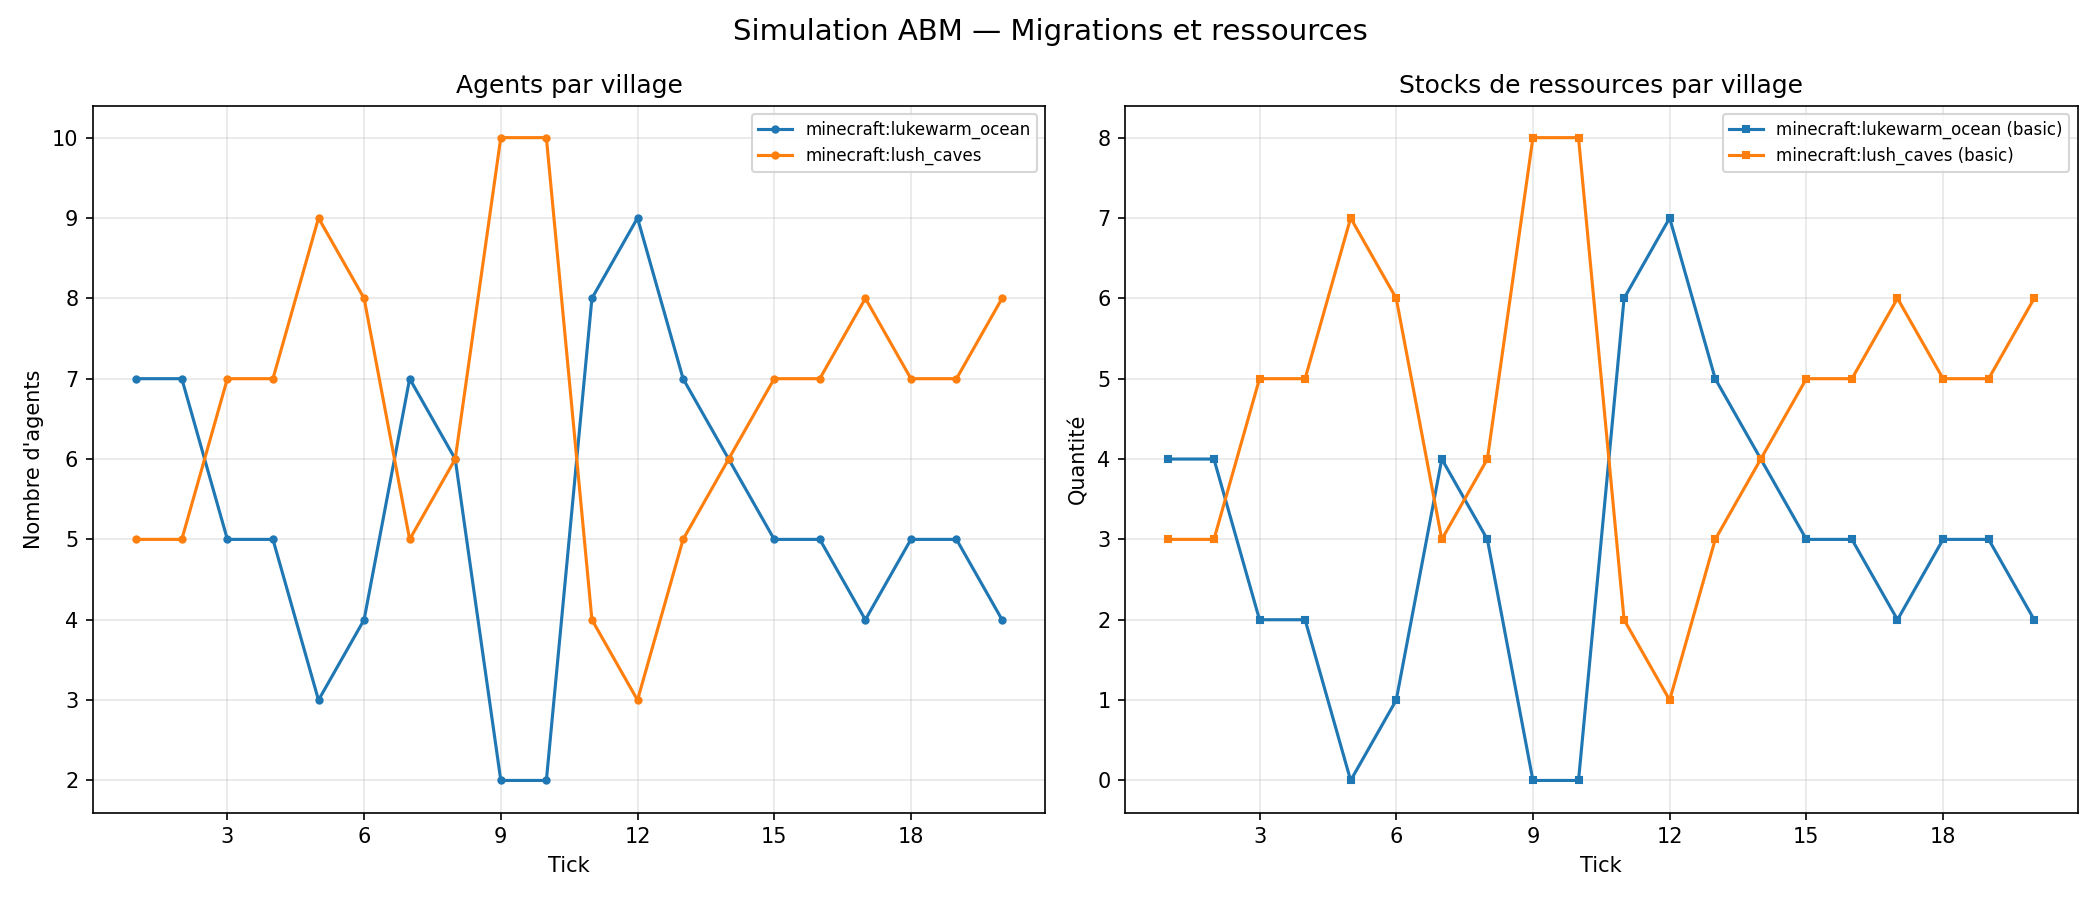
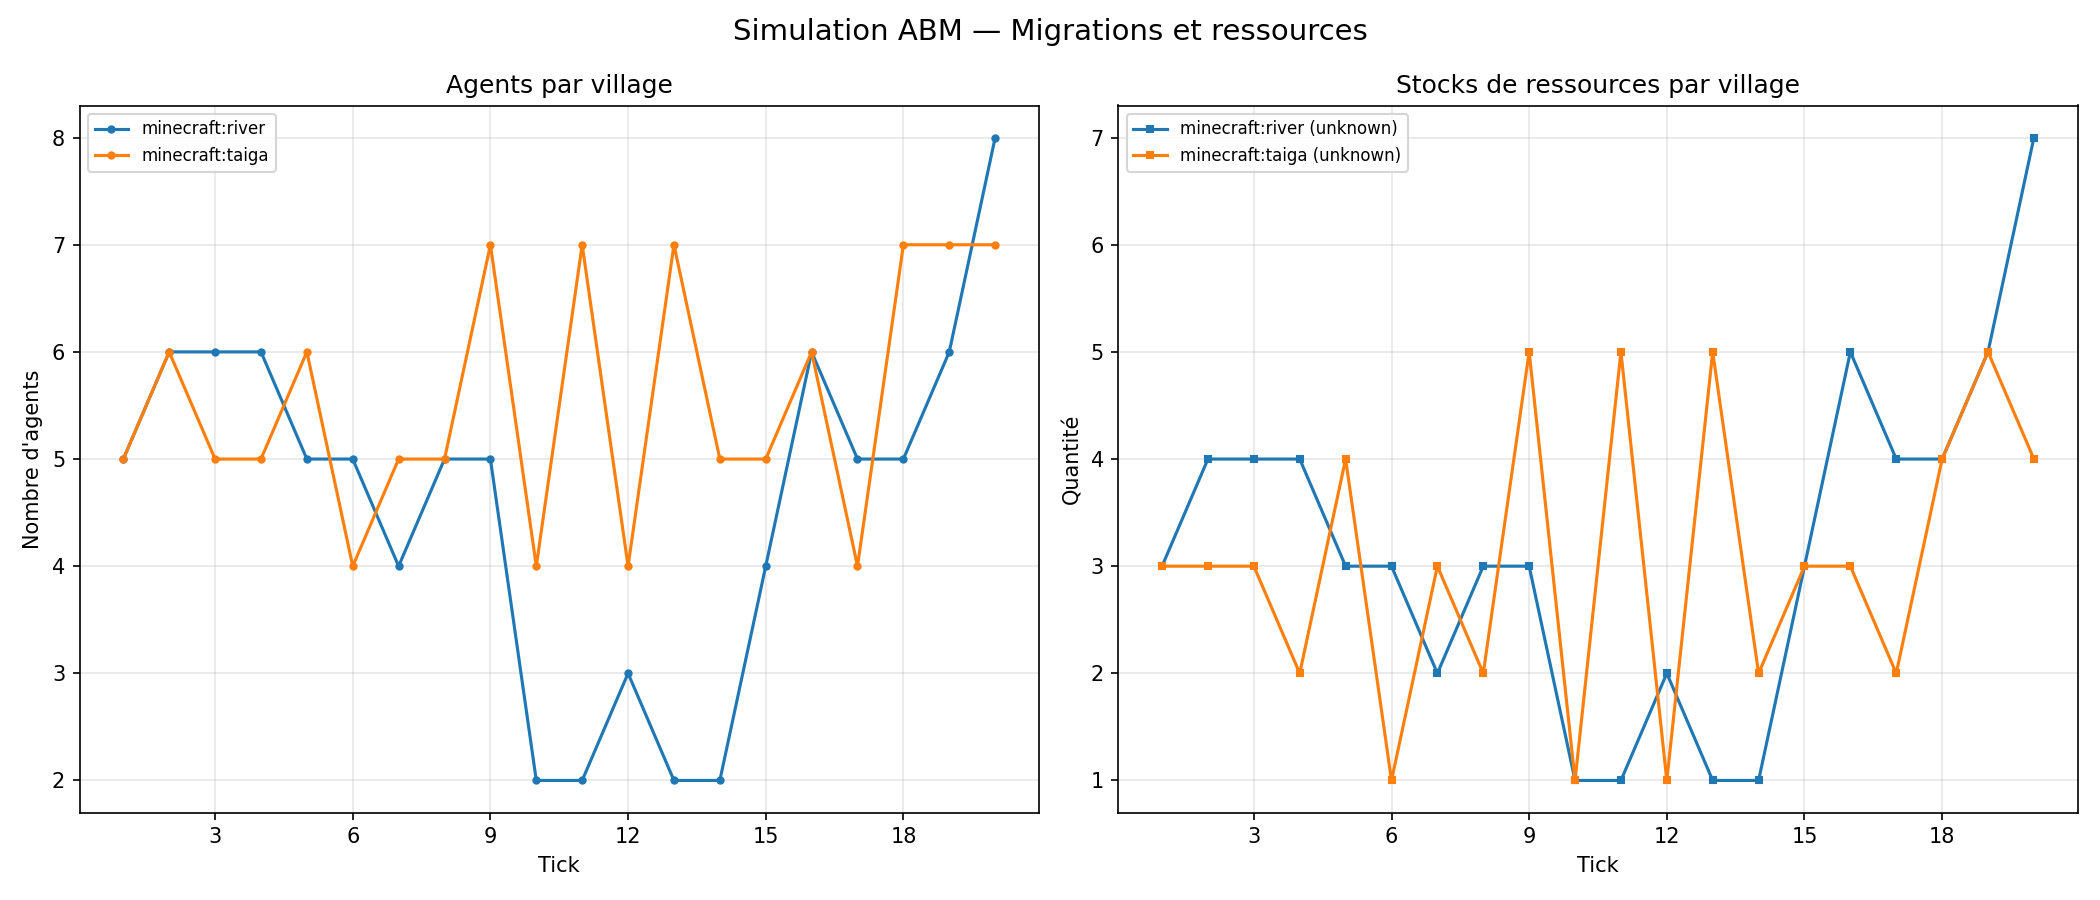
Improve code

diff --git a/villages/materials.py b/villages/materials.py
@@ -4,57 +4,170 @@ from random import choice
 MATERIALS = {
 
     "wood": {
-        "wall":         ["spruce_planks", "oak_planks", "birch_planks"],
-        "log":          ["spruce_log", "oak_log", "birch_log"],
-        "slab":         ["spruce_slab", "oak_slab"],
-        "stairs":       ["spruce_stairs", "oak_stairs"],
-        "glass":        "glass_pane",
-        "floor":        "dirt_path",
-        "floor_inside": ["spruce_planks", "oak_planks"],
-        "door":         "spruce_door",
-        "light":        "lantern",
-        "fence":        "spruce_fence",
+        "wall": [
+            "spruce_planks",
+            "oak_planks",
+            "birch_planks",
+            "dark_oak_planks"
+        ],
+
+        "log": [
+            "spruce_log",
+            "oak_log",
+            "birch_log",
+            "dark_oak_log"
+        ],
+
+        "slab": [
+            "spruce_slab",
+            "oak_slab",
+            "birch_slab",
+            "dark_oak_slab"
+        ],
+
+        "stairs": [
+            "spruce_stairs",
+            "oak_stairs",
+            "birch_stairs",
+            "dark_oak_stairs"
+        ],
+
+        "glass": "glass_pane",
+
+        "floor": "dirt_path",
+
+        "floor_inside": [
+            "spruce_planks",
+            "oak_planks",
+            "birch_planks"
+        ],
+
+        "door": "spruce_door",
+
+        "light": "lantern",
+
+        "fence": "spruce_fence",
     },
 
     "stone": {
-        "wall":         ["stone_bricks", "cobblestone", "andesite"],
-        "log":          ["stone_bricks", "andesite"],
-        "slab":         ["stone_brick_slab", "cobblestone_slab"],
-        "stairs":       ["stone_brick_stairs", "cobblestone_stairs"],
-        "glass":        "glass_pane",
-        "floor":        "stone_bricks",
-        "floor_inside": ["polished_andesite", "stone_bricks"],
-        "door":         "iron_door",
-        "light":        "sea_lantern",
-        "fence":        "iron_bars",
+        "wall": [
+            "stone_bricks",
+            "cobblestone",
+            "andesite",
+            "polished_andesite"
+        ],
+
+        "log": [
+            "stone_bricks",
+            "andesite"
+        ],
+
+        "slab": [
+            "stone_brick_slab",
+            "cobblestone_slab",
+            "andesite_slab"
+        ],
+
+        "stairs": [
+            "stone_brick_stairs",
+            "cobblestone_stairs",
+            "andesite_stairs"
+        ],
+
+        "glass": "glass_pane",
+
+        "floor": "stone_bricks",
+
+        "floor_inside": [
+            "stone_bricks",
+            "polished_andesite"
+        ],
+
+        "door": "spruce_door",
+
+        "light": "lantern",
+
+        "fence": "cobblestone_wall",
     },
 
     "sand": {
-        "wall":         ["sandstone", "smooth_sandstone", "cut_sandstone"],
-        "log":          ["smooth_sandstone", "cut_sandstone"],
-        "slab":         ["sandstone_slab", "smooth_sandstone_slab"],
-        "stairs":       ["sandstone_stairs", "smooth_sandstone_stairs"],
-        "glass":        "glass_pane",
-        "floor":        "sand",
-        "floor_inside": ["smooth_sandstone", "terracotta"],
-        "door":         "acacia_door",
-        "light":        "torch",
-        "fence":        "acacia_fence",
+        "wall": [
+            "sandstone",
+            "smooth_sandstone",
+            "cut_sandstone",
+            "red_sandstone"
+        ],
+
+        "log": [
+            "smooth_sandstone",
+            "cut_sandstone"
+        ],
+
+        "slab": [
+            "sandstone_slab",
+            "smooth_sandstone_slab",
+            "red_sandstone_slab"
+        ],
+
+        "stairs": [
+            "sandstone_stairs",
+            "smooth_sandstone_stairs",
+            "red_sandstone_stairs"
+        ],
+
+        "glass": "glass_pane",
+
+        "floor": "sand",
+
+        "floor_inside": [
+            "smooth_sandstone",
+            "cut_sandstone"
+        ],
+
+        "door": "acacia_door",
+
+        "light": "torch",
+
+        "fence": "acacia_fence",
     },
 
     "food": {
-        "wall":         ["oak_planks", "mud_bricks"],
-        "log":          ["oak_log", "stripped_oak_log"],
-        "slab":         ["oak_slab", "mud_brick_slab"],
-        "stairs":       ["oak_stairs", "mud_brick_stairs"],
-        "glass":        "glass_pane",
-        "floor":        "grass_block",
-        "floor_inside": ["dirt_path", "oak_planks"],
-        "door":         "oak_door",
-        "light":        "torch",
-        "fence":        "oak_fence",
-    },
+        "wall": [
+            "mud_bricks",
+            "packed_mud",
+            "oak_planks"
+        ],
 
+        "log": [
+            "oak_log",
+            "stripped_oak_log"
+        ],
+
+        "slab": [
+            "mud_brick_slab",
+            "oak_slab"
+        ],
+
+        "stairs": [
+            "mud_brick_stairs",
+            "oak_stairs"
+        ],
+
+        "glass": "glass_pane",
+
+        "floor": "grass_block",
+
+        "floor_inside": [
+            "oak_planks",
+            "packed_mud"
+        ],
+
+        "door": "oak_door",
+
+        "light": "lantern",
+
+        "fence": "oak_fence",
+    }
 }
 
 DEFAULT_MATERIALS = MATERIALS["wood"]

diff --git a/grid.py b/grid.py
@@ -1,22 +1,49 @@
 
 
 BIOME_RESOURCES = {
-    "forest": "wood",
-    "plains": "food",
-    "desert": "stone",
-    "mountain": "stone",
-    "jungle": "wood"
-}
 
+    # Wood
+    "forest": "wood",
+    "birch": "wood",
+    "dark_forest": "wood",
+    "taiga": "wood",
+    "old_growth": "wood",
+    "jungle": "wood",
+    "bamboo": "wood",
+    "mangrove": "wood",
+    "grove": "wood",
+    "swamp": "wood",
+
+    # Food
+    "plains": "food",
+    "savanna": "food",
+    "river": "food",
+    "ocean": "food",
+    "beach": "food",
+    "snowy_plains": "food",
+    "meadow": "food",
+
+    # Sand
+    "desert": "sand",
+
+    # Stone
+    "mountain": "stone",
+    "windswept": "stone",
+    "stony": "stone",
+    "peaks": "stone",
+    "badlands": "stone",
+    "lush_caves": "stone"
+}
 
 def detect_resource(biome):
 
     for key in BIOME_RESOURCES:
 
+        biome = biome.lower()
         if key in biome:
             return BIOME_RESOURCES[key]
 
-    return "basic"
+    return "food"
 
 
 def build_grid(editor, world_size, grid_size):
@@ -27,7 +54,7 @@ def build_grid(editor, world_size, grid_size):
 
         for z in range(0, world_size, grid_size):
 
-            biome = editor.getBiome((x, 0, z))
+            biome = editor.getBiome((x, 256, z))
 
             zones.append({
                 "x": x,

diff --git a/villages/houses/roof.py b/villages/houses/roof.py
@@ -3,8 +3,20 @@ from gdpc.geometry import placeCuboid
 
 
 def _plank_from_stair(stair_name):
-    return stair_name.replace("_stairs", "_planks")
 
+    mapping = {
+        "oak_stairs": "oak_planks",
+        "spruce_stairs": "spruce_planks",
+        "birch_stairs": "birch_planks",
+        "dark_oak_stairs": "dark_oak_planks",
+
+        "cobblestone_stairs": "cobblestone",
+        "stone_brick_stairs": "stone_bricks",
+        "sandstone_stairs": "sandstone",
+        "red_sandstone_stairs": "red_sandstone"
+    }
+
+    return mapping.get(stair_name, "oak_planks")
 
 def _place_roof_ns(editor, x, base_y, z, width, depth, stair_name, slab_name):
     """Pignon sur X, faîtage parallèle à Z. Déborde de 1 bloc sur les côtés."""

diff --git a/villages/builder.py b/villages/builder.py
@@ -6,9 +6,17 @@ from villages.houses.houses_data import generate_houses
 
 def get_height(world_slice, x, z):
 
-    return world_slice.heightmaps[
+    heightmap = world_slice.heightmaps[
         "MOTION_BLOCKING_NO_LEAVES"
-    ][x, z]
+    ]
+
+    max_x = heightmap.shape[0] - 1
+    max_z = heightmap.shape[1] - 1
+
+    safe_x = max(0, min(x, max_x))
+    safe_z = max(0, min(z, max_z))
+
+    return heightmap[safe_x, safe_z]
 
 
 def clear_area(
